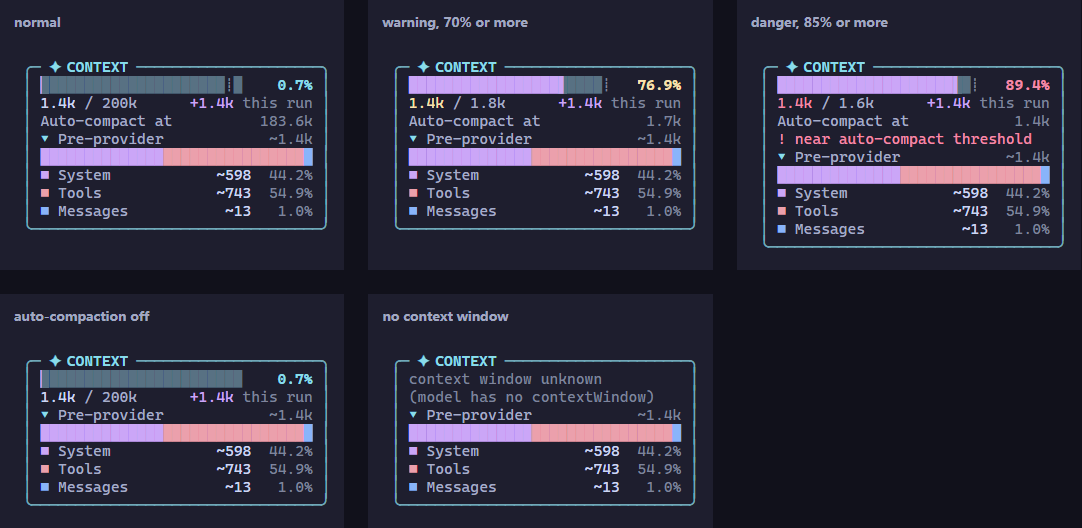
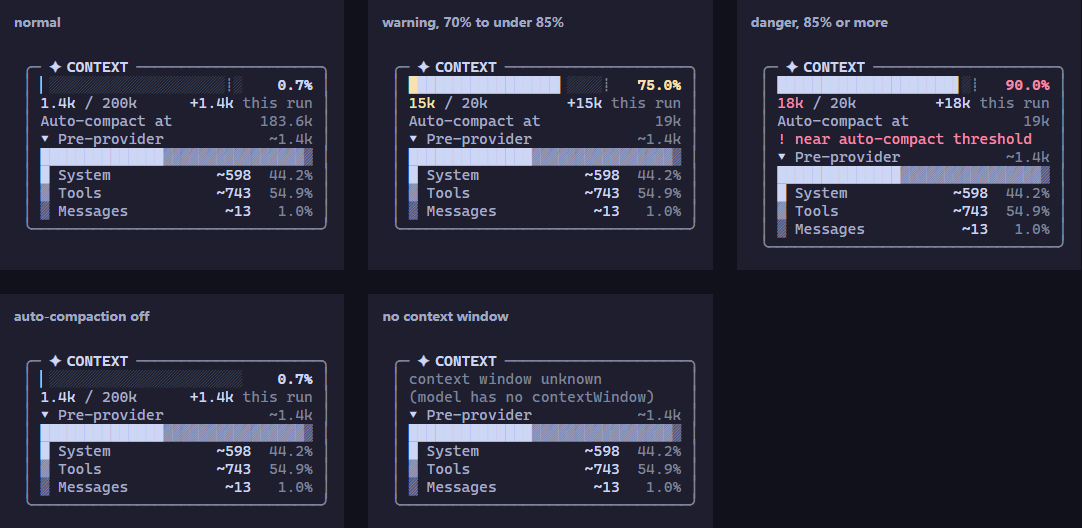
Make CONTEXT warning and danger screenshots deterministic
Pin scripted provider usage at 75% and 90% and reject invalid screenshot states before saving the gallery.

Fixes #5.

diff --git a/scripts/screenshot.ts b/scripts/screenshot.ts
@@ -36,8 +36,8 @@ const stateOut = option("--state-out");
 
 // ---- one CONTEXT panel per real state, for the gallery in the design doc ----
 // Each state needs its own model or settings, so `--states` starts one isolated Pi per state and
-// draws the panels it gets back into one image. Nothing is forged: the panel shows Pi's own context
-// usage, drawn by the sidebar in a real session.
+// draws the panels it gets back into one image. Warning and danger pin the scripted provider's
+// reported usage; Pi computes the context percentage and the sidebar renders it in a real session.
 interface StateSpec {
   caption: string;
   /** Context window of the scripted model; 0 leaves the model without one. */
@@ -46,14 +46,16 @@ interface StateSpec {
   compaction?: boolean;
   /** Tokens kept free by auto-compaction; the default 16384 does not fit a small window. */
   reserve?: number;
+  /** Fixed provider-reported total, independent of Pi's prompt and the scripted exchange. */
+  tokens?: number;
 }
 const STATE_PROMPT = "Which files does the GIT panel read, and how often?";
 const STATE_REPLY = "It reads git status and git diff, and refreshes on events and every 15 s while idle.";
-/** One exchange uses about 1.4k tokens in Pi 1.6.0; these windows put it in the §6.6 bands. */
+/** Design §6.6: 75% and 90% usage, both below the 95% auto-compaction threshold. */
 const STATES: Record<string, StateSpec> = {
   normal: { caption: "normal", window: 200_000 },
-  warning: { caption: "warning, 70% or more", window: 1_800, reserve: 100 },
-  danger: { caption: "danger, 85% or more", window: 1_550, reserve: 100 },
+  warning: { caption: "warning, 70% to under 85%", window: 20_000, reserve: 1_000, tokens: 15_000 },
+  danger: { caption: "danger, 85% or more", window: 20_000, reserve: 1_000, tokens: 18_000 },
   "compaction-off": { caption: "auto-compaction off", window: 200_000, compaction: false },
   "no-window": { caption: "no context window", window: 0 },
 };
@@ -208,7 +210,18 @@ function stream(model: Model<Api>, context: TranscriptContext, options?: SimpleS
     await sleep(ttft);
     await options?.onResponse?.({ status: 200, headers: {} }, model);
     for await (const event of core.streamSimple(model, context, options)) {
-      if (event.type === "done") event.message.usage.cost = ai.calculateCost(model, event.message.usage);
+      if (event.type === "done") {
+        if (state?.tokens !== undefined) {
+          event.message.usage = {
+            ...event.message.usage,
+            input: state.tokens - event.message.usage.output,
+            cacheRead: 0,
+            cacheWrite: 0,
+            totalTokens: state.tokens,
+          };
+        }
+        event.message.usage.cost = ai.calculateCost(model, event.message.usage);
+      }
       out.push(event);
     }
     out.end();
@@ -273,8 +286,12 @@ if (state) core.setResponses([ai.fauxAssistantMessage(STATE_REPLY)]);
 // ---- a helper extension: registers the model, reaches the TUI, captures frames ----
 
 let tui: TUI | undefined;
+let stateCompactionStarted = false;
 function helper(api: ExtensionAPI): void {
   api.registerProvider(provider);
+  api.on("session_before_compact", () => {
+    stateCompactionStarted = true;
+  });
   // The script expects every tool call to succeed; a failure is a problem of the scenario.
   api.on("tool_execution_end", (event) => {
     if (event.isError) console.error(`\n${event.toolName} failed: ${JSON.stringify(event.result).slice(0, 400)}`);
@@ -667,10 +684,28 @@ try {
   await run("start Pi", () => until("the sidebar", has("SESSION")));
 
   if (state) {
-    // One exchange is enough: the model's window is what makes the state.
+    // Design §6.6: one exchange, with fixed provider usage for warning and danger.
     await enter(STATE_PROMPT);
     await until("the run to start", has("WORKING"), 20_000);
-    const answered = await run("the reply", () => until("the answer", has("READY"), 60_000));
+    const answered = await run("the reply", () =>
+      until("the answer", (lines) => has("READY")(lines) && !runtime.session.isStreaming && !runtime.session.isCompacting, 60_000),
+    );
+    if (stateName === "warning" || stateName === "danger") {
+      const usage = runtime.session.getContextUsage();
+      const min = stateName === "warning" ? 70 : 85;
+      const max = stateName === "warning" ? 85 : 100;
+      if (!usage || usage.tokens === null || usage.percent === null || usage.percent < min || usage.percent >= max) {
+        throw new Error(`${stateName}: expected ${min}% <= usage < ${max}%, got ${JSON.stringify(usage)}`);
+      }
+      if (usage.tokens !== state.tokens) {
+        throw new Error(`${stateName}: expected provider usage of ${state.tokens} tokens, got ${usage.tokens}`);
+      }
+      const compactAt = state.window - (state.reserve ?? 16_384);
+      if (stateCompactionStarted || usage.tokens >= compactAt) {
+        throw new Error(`${stateName}: expected no compaction and usage below ${compactAt} tokens, got ${usage.tokens} (compaction started: ${stateCompactionStarted})`);
+      }
+      console.log(`${stateName}: ${usage.tokens}/${usage.contextWindow} tokens (${usage.percent.toFixed(1)}%), below compaction at ${compactAt}`);
+    }
     if (!stateOut) throw new Error("--state needs --state-out");
     writeFileSync(stateOut, JSON.stringify(contextBlock(answered)), "utf8");
     throw captured;

diff --git a/README.md b/README.md
@@ -105,3 +105,5 @@ npm run bench              # timings of rendering, usage scans and the breakdown
 ```
 
 Tests and type checks use the packages of the installed Pi (`~/.pi/agent/install/releases/<version>/node_modules`), or the directory in `PI_NODE_MODULES`. CI installs Pi from npm and runs on Linux, Windows and macOS. The design is in [docs/design/pi-sidebar-design.md](./docs/design/pi-sidebar-design.md).
+
+The CONTEXT screenshot gallery fixes the scripted provider's reported usage at 75% for warning and 90% for danger, below the 95% auto-compaction threshold. Pi computes the percentages and the sidebar renders them. Generation fails if either state leaves its band, differs from the fixed token count, reaches the compaction threshold or starts compaction.
